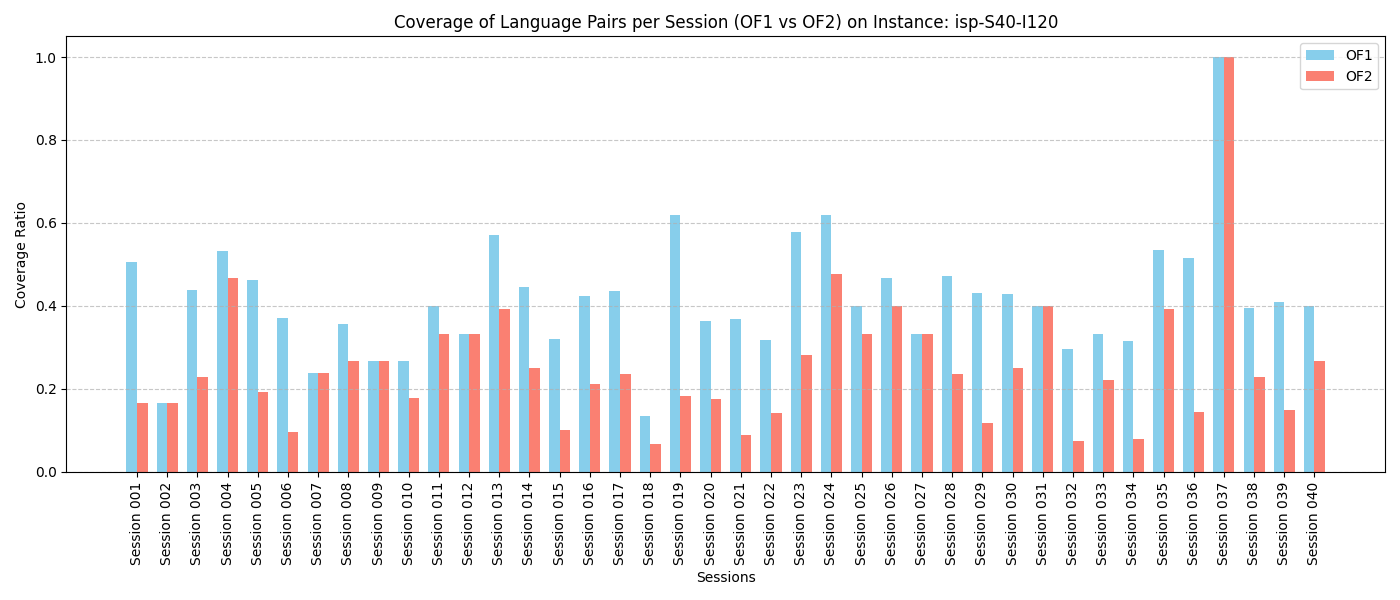
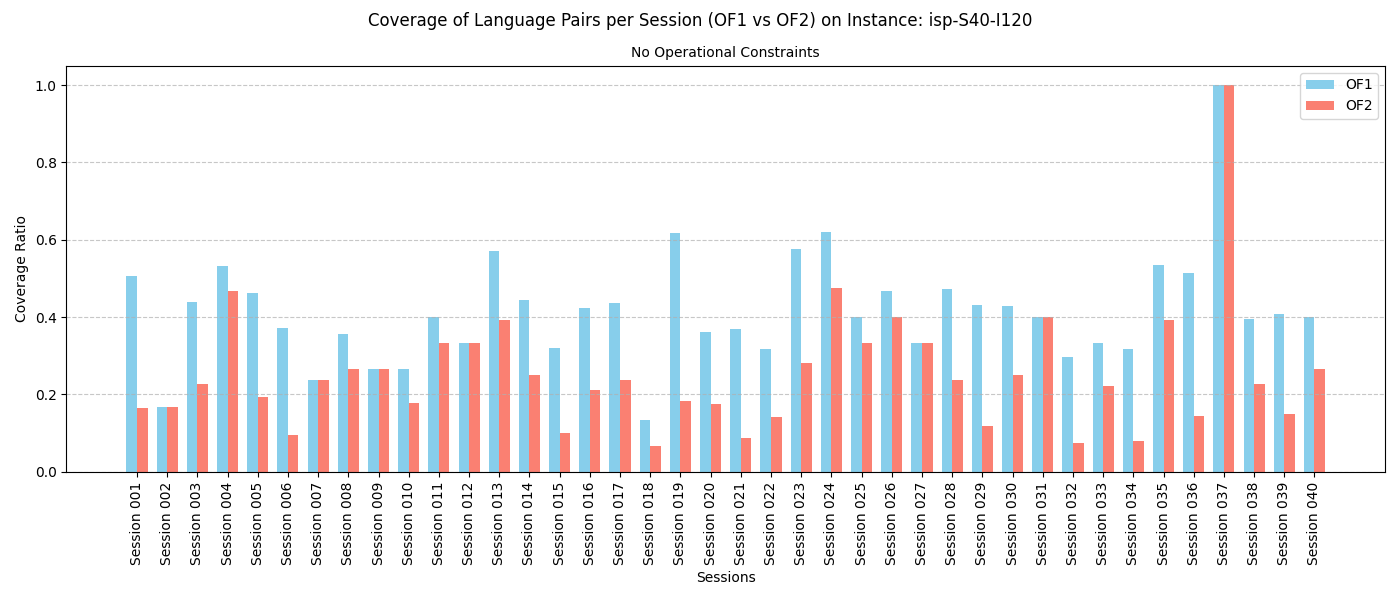
Compare with bridging

diff --git a/src/compare_objectives.py b/src/compare_objectives.py
@@ -1,5 +1,6 @@
 from argparse import ArgumentParser
 from isp import ISP
+from isp_bridge import ISPBridge
 import matplotlib.pyplot as plt
 import numpy as np
 import itertools
@@ -7,8 +8,10 @@ import os
 
 parser = ArgumentParser()
 parser.add_argument("--instance", type=str, default="instances/example.json", help="Path to instance file")
+parser.add_argument("--oper-constr", action="store_true", help="Use operational constraints", default=False)
+parser.add_argument("--bridging", action="store_true", help="Compare OF1 to bridging", default=False)
 
-def get_coverage_ratios(model):
+def get_coverage_ratios(model, bridging):
     instance = model.instance
     coverage_ratios = {}
 
@@ -19,11 +22,25 @@ def get_coverage_ratios(model):
 
         covered = 0
         for l1, l2 in language_pairs:
+            is_covered = False
+
+            # Direct coverage by interpreters
             for i in instance.interpreters:
-                key = (i, s, l1, l2)
-                if key in model.z and model.z[key].X > 0.5:
-                    covered += 1
-                    break   # Only count once per pair
+                zkey = (i, s, l1, l2)
+                if zkey in model.z and model.z[zkey].X > 0.5:
+                    is_covered = True
+                    break
+
+            # Coverage via bridging
+            if not is_covered and bridging:
+                for i1, i2, s1, la, lb, lp in model.w:
+                    if {la, lb} == {l1, l2} and s1 == s:
+                        if model.w[i1, i2, s1, la, lb, lp].X > 0.5:
+                            is_covered = True
+                            break
+
+            if is_covered:
+                covered += 1
 
         coverage_ratios[s] = covered / total_pairs if total_pairs > 0 else 0.0
 
@@ -31,14 +48,17 @@ def get_coverage_ratios(model):
 
 if __name__ == "__main__":
     args = parser.parse_args()
-    first_obj = ISP(args.instance, "OF1", False)
-    second_obj = ISP(args.instance, "OF2", False)
+    first_obj = ISP(args.instance, "OF1", args.oper_constr)
+    if args.bridging:
+        second_obj = ISPBridge(args.instance, "OF1", args.oper_constr)
+    else:
+        second_obj = ISP(args.instance, "OF2", args.oper_constr)
 
     first_obj.optimize()
     second_obj.optimize()
 
-    ratios1 = get_coverage_ratios(first_obj)
-    ratios2 = get_coverage_ratios(second_obj)
+    ratios1 = get_coverage_ratios(first_obj, False)
+    ratios2 = get_coverage_ratios(second_obj, args.bridging)
 
     sessions = sorted(ratios1.keys())
     x = np.arange(len(sessions))
@@ -52,10 +72,17 @@ if __name__ == "__main__":
     plt.figure(figsize=(14, 6))
     width = 0.35
     plt.bar(x - width/2, values1, width, label="OF1", color="skyblue")
-    plt.bar(x + width/2, values2, width, label="OF2", color="salmon")
+    label = "OF2" if not args.bridging else "Bridging OF1"
+    plt.bar(x + width/2, values2, width, label=label, color="salmon")
     plt.xlabel("Sessions")
     plt.ylabel("Coverage Ratio")
-    plt.title("Coverage of Language Pairs per Session (OF1 vs OF2) on Instance: " + instance_name)
+    if not args.bridging:
+        suptitle = f"Coverage of Language Pairs per Session (OF1 vs OF2) on Instance: {instance_name}"
+    else:
+        suptitle = f"Coverage of Language Pairs per Session (OF1 vs OF1 with bridging) on Instance: {instance_name}"
+    plt.suptitle(suptitle, fontsize=12)
+    title = "Operational Constraints Applied" if args.oper_constr else "No Operational Constraints"
+    plt.title(title, fontsize=10)
     plt.xticks(x, sessions, rotation=90)
     plt.ylim(0, 1.05)
     plt.legend()
